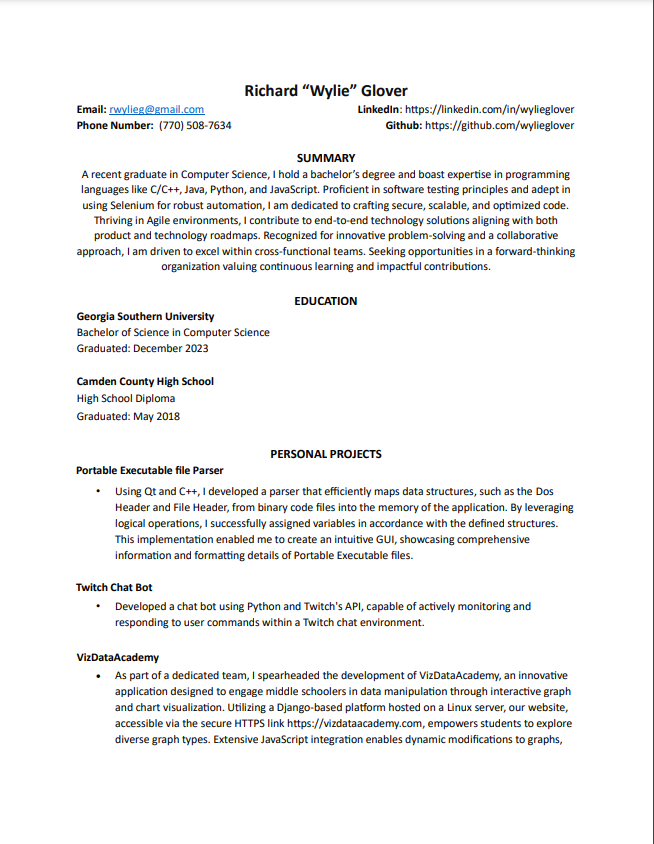
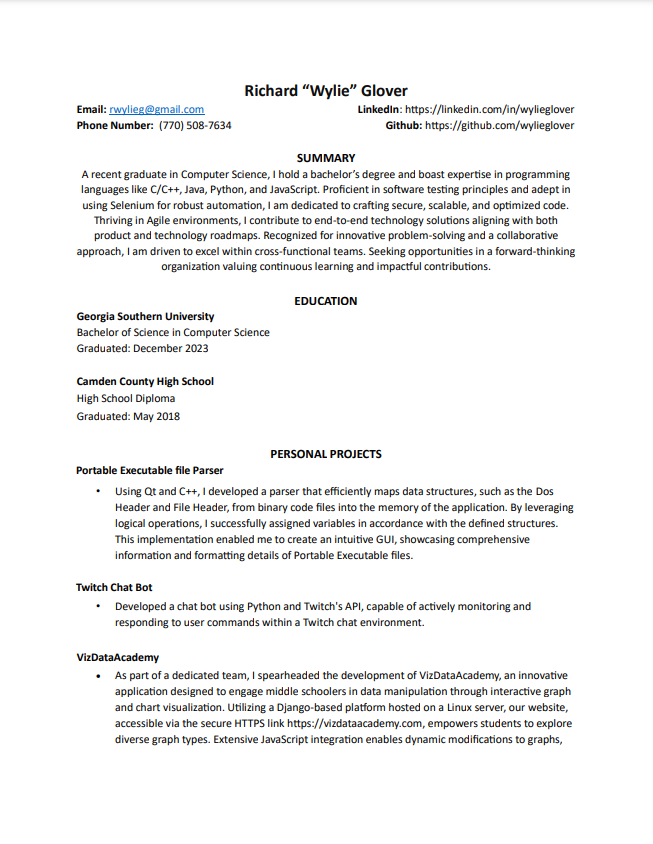
tuned resume page and added projects page

diff --git a/portfolio-website/src/pages/Projects.js b/portfolio-website/src/pages/Projects.js
@@ -1,0 +1,48 @@
+import React from "react";
+import "./Projects.css";
+
+const Projects = () => {
+    const projects = [
+        {
+            title: "Viz Data Academy",
+            description: "Viz Data Academy is a data visualization learning platform that provides hands-on learning experience for data visualization and data storytelling.",
+            link: "https://github.com/wylieglover/VizDataAcademy"
+        },
+        {
+            title: "PE Parser",
+            description: "Parses the PE header of a Windows executable file and displays the information in a readable format.",
+            link: "https://github.com/wylieglover/PEParser"
+        },
+        {
+            title: "FrannyBot",
+            description: "A Twitch bot that can track deaths, wins, and losses!",
+            link: "https://github.com/wylieglover/FrannyBot"
+        },
+        // Add more projects as needed
+    ];
+
+    const openProjectLink = (link) => {
+        window.open(link, "_blank");
+    };
+
+    return (
+        <div className="projects-container">
+            <h1>PROJECTS</h1>
+            <div className="project-boxes">
+                {projects.map((project, index) => (
+                    <div
+                        className="project-box"
+                        key={index}
+                        onClick={() => openProjectLink(project.link)}
+                    >
+                        <h2>{project.title}</h2>
+                        <p>{project.description}</p>
+                        <span className="view-project">View Project</span>
+                    </div>
+                ))}
+            </div>
+        </div>
+    );
+};
+
+export default Projects;

diff --git a/portfolio-website/src/pages/Resume.css b/portfolio-website/src/pages/Resume.css
@@ -4,6 +4,14 @@
     display: flex;
     margin-top: 100px;
     margin-left: 150px;
+    justify-content: center;
+    align-items: flex-start;
+}
+
+.resume-header {
+    display: flex;
+    flex-direction: column;
+    gap: 0px;
 }
 
 .left-column {
@@ -14,9 +22,7 @@
 .right-column {
     display: flex;
     flex-direction: column;
-    justify-content: flex-end;
-    align-items: flex-end;
-    /* Align content to the right */
+    align-items: center;
 }
 
 .resume-content {
@@ -29,10 +35,16 @@
 
 .resume-header-name {
     font-size: 25px;
+    margin-bottom: -5px;
 }
 
 .resume-header-email {
     font-size: 20px;
+    margin-bottom: 3px;
+}
+
+.resume-header-email h3 {
+    margin: 3px 0;
 }
 
 .skills,
@@ -62,22 +74,18 @@
     align-items: flex-start;
     margin-top: 60px;
     margin-bottom: auto;
-    /* Pushes the image container up */
 }
 
 .swap-image {
     max-width: 70%;
     width: auto;
-    /* Adjust width to maintain aspect ratio */
     height: auto;
-    /* Adjust width to maintain aspect ratio */
     transition: transform 0.5s ease;
-    /* Add transition for smooth effect */
 }
 
 .swap-image:hover {
     cursor: pointer;
-    transform: scale(1.05);
+    transform: scale(1.02);
     align-self: flex-start;
 }
 

diff --git a/portfolio-website/src/pages/Projects.css b/portfolio-website/src/pages/Projects.css
@@ -1,0 +1,47 @@
+.body {
+    background-image: url('../images/art.jpg');
+}
+
+.projects-container {
+    padding: 20px;
+    /* Additional styling for the container if needed */
+}
+
+.project-boxes {
+    display: flex;
+    flex-wrap: wrap;
+    gap: 20px;
+    /* Adjust the gap between project boxes as needed */
+}
+
+.project-box {
+    border: 2px solid #aaa;
+    border-radius: 10px;
+    background-color: #141414;
+    padding: 20px;
+    width: 300px;
+    height: 200px;
+    color: #fff;
+    transition: transform 0.3s ease;
+    display: flex;
+    flex-direction: column;
+    justify-content: space-between;
+    cursor: pointer;
+}
+
+.project-box:hover {
+    transform: translateY(-5px);
+    /* Lift the box on hover */
+}
+
+.project-box a {
+    display: block;
+    text-decoration: none;
+    color: #fff;
+    /* Additional styling for the project link if needed */
+}
+
+.project-box a:hover {
+    text-decoration: none;
+    /* Remove underline from project link on hover */
+}

diff --git a/portfolio-website/src/App.js b/portfolio-website/src/App.js
@@ -8,6 +8,7 @@ import {
 
 import Home from "./pages/Home";
 import Resume from "./pages/Resume";
+import Projects from "./pages/Projects";
 import "./App.css";
 
 function App() {
@@ -17,6 +18,7 @@ function App() {
         <Navbar />
         <Routes>
           <Route exact path="/" element={<Home />} />
+          <Route exact path="/projects" element={<Projects />} />
           <Route path="/resume" element={<Resume />} />
         </Routes>
       </Router>

diff --git a/portfolio-website/src/pages/Home.js b/portfolio-website/src/pages/Home.js
@@ -3,7 +3,7 @@ import { faGithub, faLinkedin } from '@fortawesome/free-brands-svg-icons';
 import { faEnvelope } from '@fortawesome/free-solid-svg-icons'
 import { FontAwesomeIcon } from '@fortawesome/react-fontawesome';
 import "./Home.css"
-import wylie_image from "./wylie.jpg";
+import wylie_image from "../images/wylie.jpg";
 
 const Home = () => {
     const [imagePosition, setImagePosition] = useState({ top: 0, left: 0 });

diff --git a/portfolio-website/src/components/Navbar.js b/portfolio-website/src/components/Navbar.js
@@ -7,6 +7,7 @@ const Navbar = () => {
         <nav>
             <ul className="navbar">
                 <li><Link to="/" className="nav-link">HOME</Link></li>
+                <li><Link to="/projects" className="nav-link">PROJECTS</Link></li>
                 <li><Link to="/resume" className="nav-link">RÉSUMÉ</Link></li>
             </ul>
         </nav>

diff --git a/portfolio-website/src/App.css b/portfolio-website/src/App.css
@@ -1,10 +1,7 @@
-/* .App {
-  
-} */
-
 body {
   background-image: url('./images/art.jpg');
   background-size: cover;
-  background-position: center;
   overflow: hidden;
+  margin: 0;
+  padding: 0;
 }
